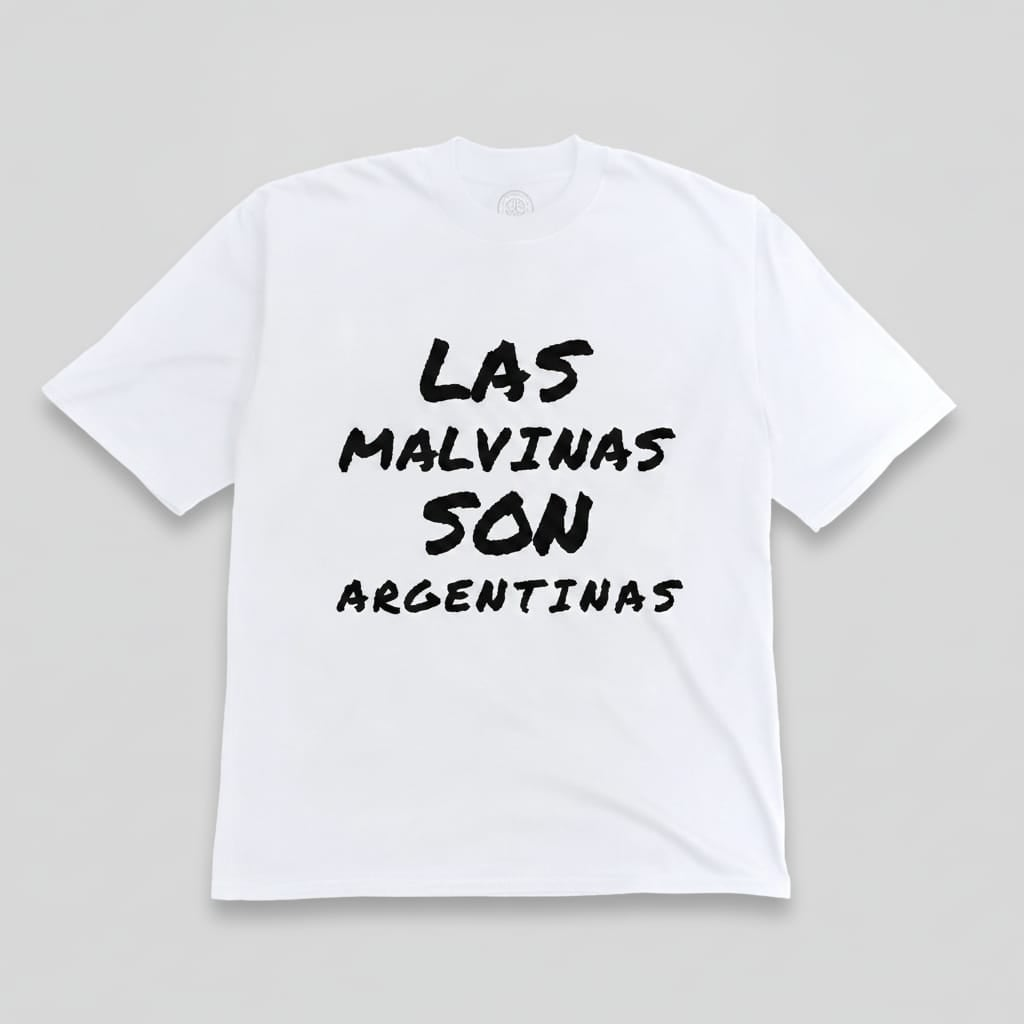
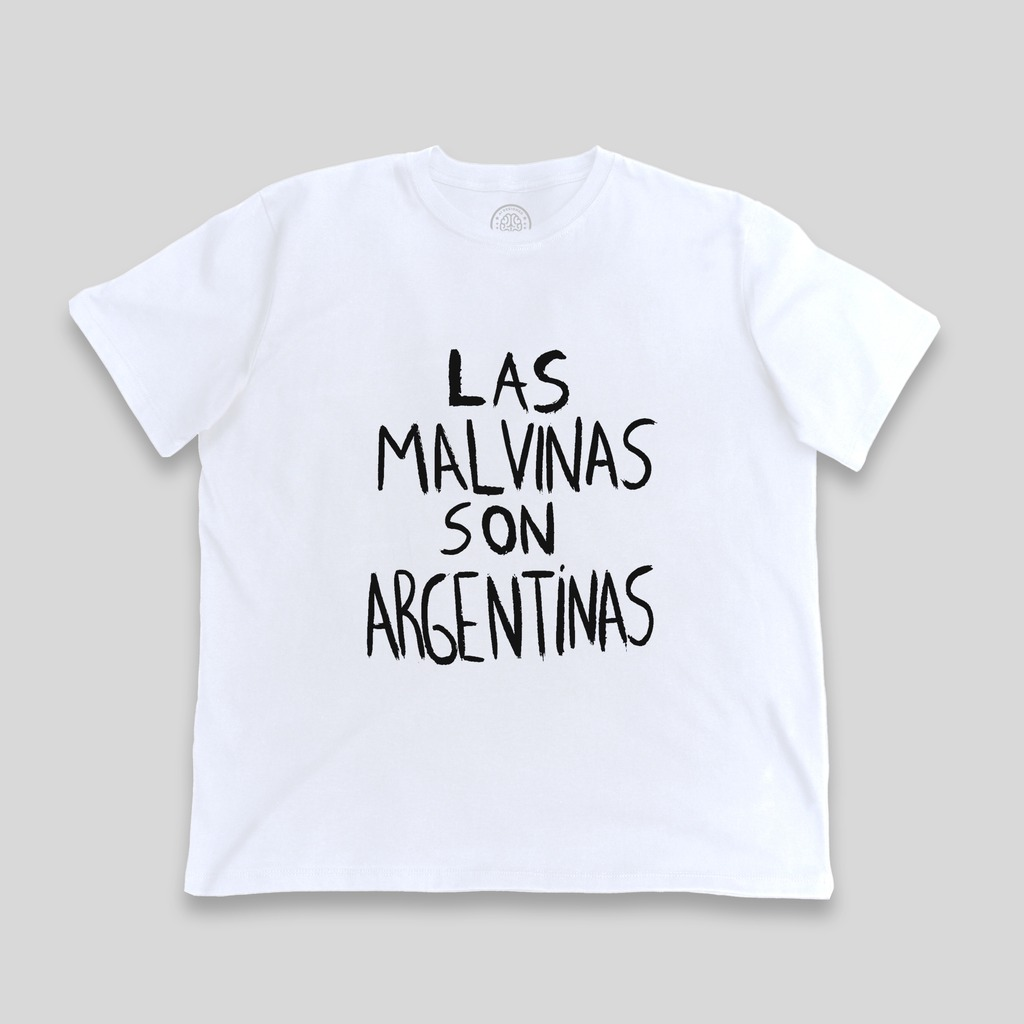
fix(malvinas): estampa ORIGINAL en los 3 productos de la frase + fit real
Los productos "El trapo", "Tipográfica" y "Pincelada" mostraban la frase en
tipografías INVENTADAS por IA (drip / marker / pincel). La estampa que va es el
lettering pintado a mano del trapo de la cancha.

- 8 packshots + 3 lifestyle regenerados con el lettering original. Los packshots
  se componen con sharp sobre las bases fotográficas reales (mismo motor que el
  resto de la serie, ninguna prenda generada por IA). En las fotos lifestyle la
  estampa vieja se borró por convolución normalizada —blur(img·máscara)/blur(máscara)—
  así el relleno hereda la luz y los pliegues de la foto, y encima se compuso el
  lettering a escala real.
- Arte canónico único: print_blanca (letras negras) recoloreado a blanco para
  prendas oscuras. Antes había dos renders con proporciones distintas, lo que
  daba una estampa de forma distinta según el color del mismo producto.
- stonewash lleva tinta BLANCA: esa base es un lavado oscuro y en negro no se leía.
- "El trapo" y "La frase" (ex Tipográfica) pasan a aura-oversize-tshirt: sus fotos
  SIEMPRE fueron de la oversize y los posts de IG las anuncian así, pero estaban
  tipadas como clásica → mostraban la tabla de medidas equivocada (48-60cm en vez
  de 55-69cm) y cobraban $28.600 por una prenda de $31.000.
- "Pincelada" pasa a "La frase · clásica" (mismo lettering, corte clásico).

Verificado: tsc 0 errores · next build ✓ · screenshots de /malvinas y de las 3 PDP
con el lettering correcto, tabla de talles oversize y precio $31.000.

diff --git a/lib/malvinas-products.ts b/lib/malvinas-products.ts
@@ -124,30 +124,35 @@ export const MALVINAS_PRODUCTS: MalvinasProduct[] = [
     slug: "trapo-negra",
     name: "El trapo",
     collection: "La Serie",
-    garmentLabel: "Remera negra",
-    garmentType: "aldea-classic-tshirt",
-    price: basePrice("aldea-classic-tshirt"),
+    // Los packshots y el lifestyle de este producto son de la remera OVERSIZE (base
+    // "REM Negra Oversize FRONT"), y los posts de IG lo anuncian como oversize. Estaba tipado
+    // como clásica: eso mostraba la tabla de medidas equivocada (48-60cm en vez de 55-69cm) y
+    // cobraba el precio de la clásica por una prenda oversize. Corregido 06/08.
+    garmentLabel: "Remera oversize",
+    garmentType: "aura-oversize-tshirt",
+    price: basePrice("aura-oversize-tshirt"),
     lifestyle: "/marketing/malvinas/trapo-negra-lifestyle.jpg",
     colors: [
       { name: "Negra", code: COLOR_HEX.negra, image: "/marketing/malvinas/trapo-negra-packshot.jpg" },
       { name: "Stone wash", code: COLOR_HEX["stone wash"], image: "/marketing/malvinas/trapo-stonewash-packshot.jpg" },
     ],
-    blurb: "La bandera que se vio en la cancha, estampada al frente.",
+    blurb: "El trapo de la cancha, con el lettering original pintado a mano.",
   },
   {
     slug: "tipografica-negra",
-    name: "Tipográfica",
+    name: "La frase",
     collection: "La Serie",
-    garmentLabel: "Remera negra",
-    garmentType: "aldea-classic-tshirt",
-    price: basePrice("aldea-classic-tshirt"),
+    // Mismo caso que "El trapo": las fotos siempre fueron de la oversize (ver arriba).
+    garmentLabel: "Remera oversize",
+    garmentType: "aura-oversize-tshirt",
+    price: basePrice("aura-oversize-tshirt"),
     lifestyle: "/marketing/malvinas/tipografica-negra-lifestyle.jpg",
     colors: [
       { name: "Negra", code: COLOR_HEX.negra, image: "/marketing/malvinas/tipografica-negra-packshot.jpg" },
       { name: "Blanca", code: COLOR_HEX.blanca, image: "/marketing/malvinas/tipografica-blanca-packshot.jpg" },
       { name: "Stone wash", code: COLOR_HEX["stone wash"], image: "/marketing/malvinas/tipografica-stonewash-packshot.jpg" },
     ],
-    blurb: "La frase, directa y sin vueltas.",
+    blurb: "El lettering original, tal cual se pintó a mano. Grande, al frente.",
   },
   {
     slug: "badge-beige",
@@ -166,9 +171,9 @@ export const MALVINAS_PRODUCTS: MalvinasProduct[] = [
   },
   {
     slug: "pincel-blanca",
-    name: "Pincelada",
+    name: "La frase · clásica",
     collection: "La Serie",
-    garmentLabel: "Remera blanca",
+    garmentLabel: "Remera clásica",
     garmentType: "aldea-classic-tshirt",
     price: basePrice("aldea-classic-tshirt"),
     lifestyle: "/marketing/malvinas/pincel-blanca-lifestyle.jpg",
@@ -177,7 +182,7 @@ export const MALVINAS_PRODUCTS: MalvinasProduct[] = [
       { name: "Negra", code: COLOR_HEX.negra, image: "/marketing/malvinas/pincel-negra-packshot.jpg" },
       { name: "Beige", code: COLOR_HEX.beige, image: "/marketing/malvinas/pincel-beige-packshot.jpg" },
     ],
-    blurb: "Trazo suelto, en blanco y negro.",
+    blurb: "El mismo lettering original, en remera de corte clásico.",
   },
   {
     slug: "islas-minimal-blanca",

diff --git a/app/malvinas/page.tsx b/app/malvinas/page.tsx
@@ -52,24 +52,24 @@ const DESIGNS: MalvinasDesign[] = [
     slug: "trapo-negra",
     productSlug: "trapo-negra",
     name: "El trapo",
-    garment: "Remera negra",
-    blurb: "La bandera que se vio en la cancha, estampada al frente.",
+    garment: "Remera oversize",
+    blurb: "El trapo de la cancha, con el lettering original pintado a mano.",
     packshot: "/marketing/malvinas/trapo-negra-packshot.jpg",
     lifestyle: "/marketing/malvinas/trapo-negra-lifestyle.jpg",
     waText:
-      "Hola Novamente! Quiero la remera de la Serie Malvinas (trapo sobre negra). Me pasan info? (ref · NV-MALVINAS)",
+      "Hola Novamente! Quiero la remera oversize de la Serie Malvinas (el trapo sobre negra). Me pasan info? (ref · NV-MALVINAS)",
     colors: ["Negra", "Stone wash"],
   },
   {
     slug: "tipografica-negra",
     productSlug: "tipografica-negra",
-    name: "Tipográfica",
-    garment: "Remera negra",
-    blurb: "La frase, directa y sin vueltas.",
+    name: "La frase",
+    garment: "Remera oversize",
+    blurb: "El lettering original, tal cual se pintó a mano. Grande, al frente.",
     packshot: "/marketing/malvinas/tipografica-negra-packshot.jpg",
     lifestyle: "/marketing/malvinas/tipografica-negra-lifestyle.jpg",
     waText:
-      "Hola Novamente! Quiero la remera de la Serie Malvinas (tipográfica sobre negra). Me pasan info? (ref · NV-MALVINAS)",
+      "Hola Novamente! Quiero la remera oversize de la Serie Malvinas (la frase sobre negra). Me pasan info? (ref · NV-MALVINAS)",
     colors: ["Negra", "Blanca", "Stone wash"],
   },
   {
@@ -87,13 +87,13 @@ const DESIGNS: MalvinasDesign[] = [
   {
     slug: "pincel-blanca",
     productSlug: "pincel-blanca",
-    name: "Pincelada",
-    garment: "Remera blanca",
-    blurb: "Trazo suelto, en blanco y negro.",
+    name: "La frase · clásica",
+    garment: "Remera clásica",
+    blurb: "El mismo lettering original, en remera de corte clásico.",
     packshot: "/marketing/malvinas/pincel-blanca-packshot.jpg",
     lifestyle: "/marketing/malvinas/pincel-blanca-lifestyle.jpg",
     waText:
-      "Hola Novamente! Quiero la remera de la Serie Malvinas (pincelada sobre blanca). Me pasan info? (ref · NV-MALVINAS)",
+      "Hola Novamente! Quiero la remera clásica de la Serie Malvinas (la frase sobre blanca). Me pasan info? (ref · NV-MALVINAS)",
     colors: ["Blanca", "Negra", "Beige"],
   },
   {

diff --git a/e2e/malvinas-buy-flow.spec.ts b/e2e/malvinas-buy-flow.spec.ts
@@ -57,7 +57,9 @@ test.describe("Serie Malvinas — flujo de compra", () => {
 
   test("producto con 2 colores: elegir color, comprar ahora lleva directo a checkout", async ({ page }) => {
     await page.goto("/malvinas/trapo-negra", { waitUntil: "networkidle" })
-    await expect(page.getByText(/\$\s?28\.600/)).toBeVisible()
+    // Precio de la AURA OVERSIZE: las fotos de este producto siempre fueron de la oversize,
+    // estaba tipado como clásica por error (ver lib/malvinas-products.ts).
+    await expect(page.getByText(/\$\s?31\.000/)).toBeVisible()
 
     // trapo-negra tiene Negra + Stone wash (única excepción a 3 colores — tela blanca
     // no es viable sobre esta prenda). Verificamos el selector antes de comprar.
